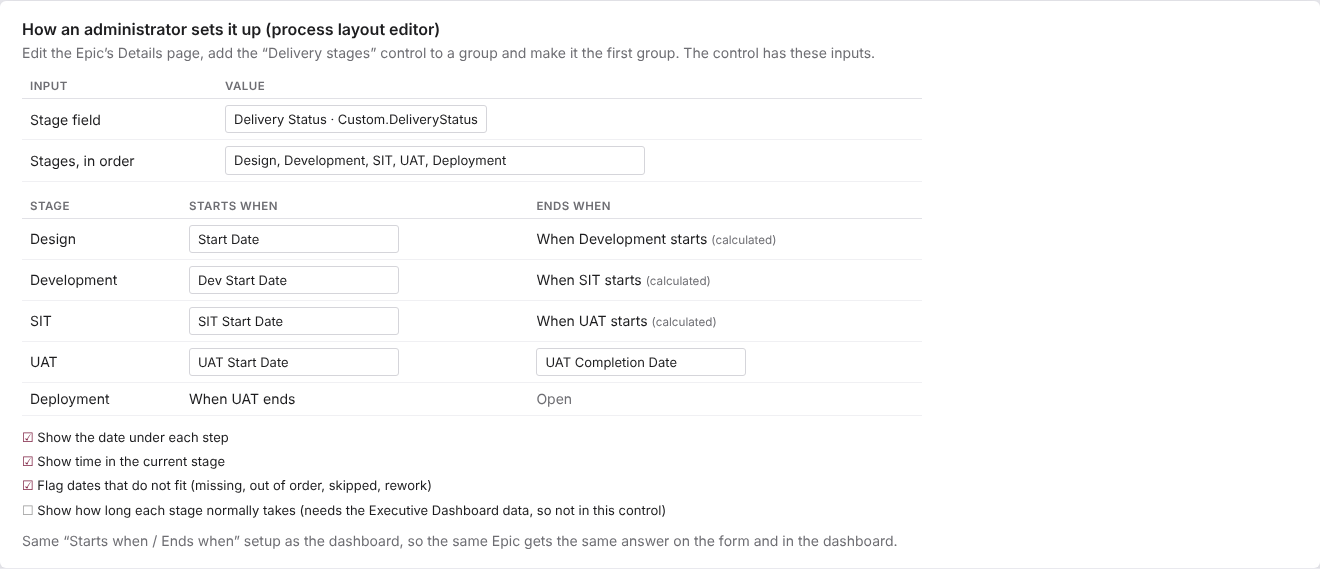
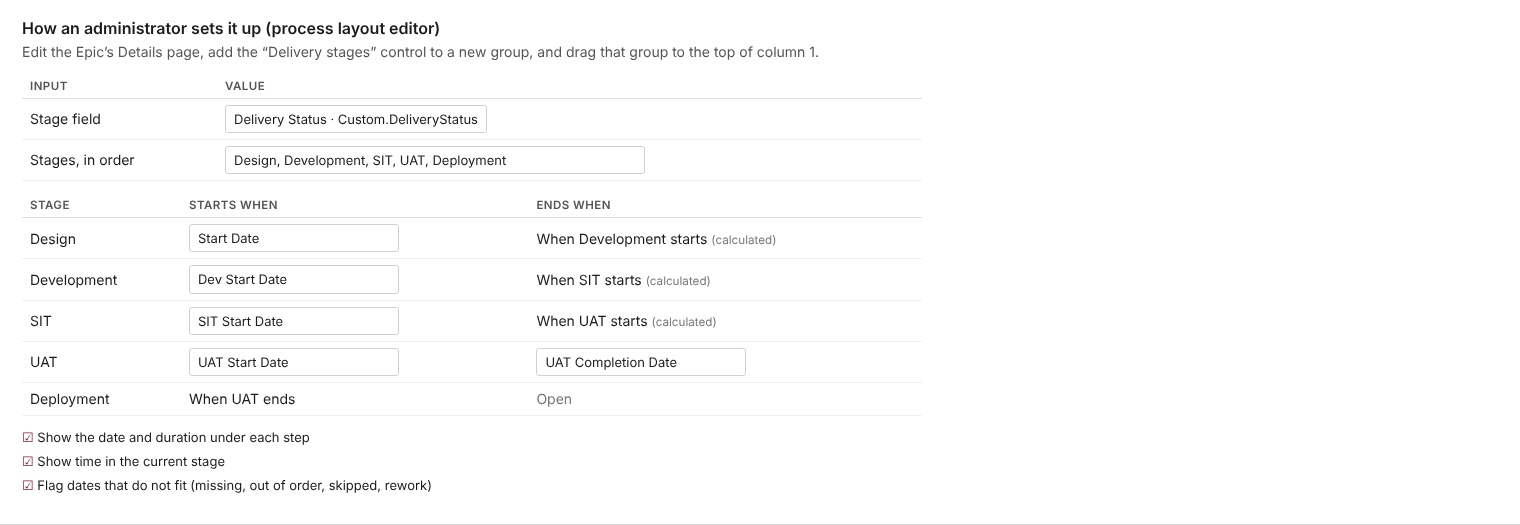
Prototype only: Delivery stages control on the real Epic form layout (top of column 1; not built)
Claude-Session: https://claude.ai/code/session_01376dPYr6LN3XTveSHPVJQG

diff --git a/prototypes/workitem-stage-control.html b/prototypes/workitem-stage-control.html
@@ -1,84 +1,85 @@
-<!doctype html><html lang="en"><head><meta charset="utf-8"><meta name="viewport" content="width=device-width,initial-scale=1"><title>Delivery stages control on the Epic form (mock-up)</title>
+<!doctype html><html lang="en"><head><meta charset="utf-8"><meta name="viewport" content="width=device-width,initial-scale=1"><title>Delivery stages control on the Epic form (mock-up on the real form)</title>
 <style>
-:root{color-scheme:light;--acc:#7a1a3c;--l1:#1d1d1f;--l2:#6e6e73;--sep:#e1e1e6;--bg:#f4f4f6;--font:"Segoe UI",-apple-system,BlinkMacSystemFont,"Inter",system-ui,sans-serif}
-*{box-sizing:border-box}body{margin:0;background:#e9e9ee;font:14px/1.4 var(--font);color:var(--l1);padding:22px}
-.top{max-width:1320px;margin:0 auto 14px}.top h1{margin:0 0 4px;font:700 20px var(--font)}.top p{margin:0;color:var(--l2);max-width:1000px}
-.ctl{max-width:1320px;margin:0 auto 14px;display:flex;gap:22px;flex-wrap:wrap;align-items:flex-start}.ctl .g{display:flex;flex-direction:column;gap:6px}.ctl .l{font:600 11px var(--font);text-transform:uppercase;letter-spacing:.04em;color:var(--l2)}
-.pk{display:flex;gap:6px;flex-wrap:wrap}.pk button{border:0;border-radius:99px;background:#fff;padding:6px 12px;font:500 12.5px var(--font);cursor:pointer;box-shadow:0 0 0 1px var(--sep)}.pk button.on{background:var(--acc);color:#fff;box-shadow:none}
-.frame{max-width:1320px;margin:0 auto;background:#fff;border-radius:6px;box-shadow:0 2px 14px rgba(0,0,0,.12);overflow:hidden}
-/* ADO-like form */
-.wih{padding:14px 20px 0;border-bottom:1px solid var(--sep);background:#fafafa}.wih .crumb{display:flex;gap:8px;align-items:center;color:#555;font-size:13px}.wih .crumb b{background:#6b21a8;color:#fff;border-radius:3px;padding:0 6px;font-size:11px}
-.wih h2{margin:6px 0 8px;font:600 21px var(--font);display:flex;gap:10px;align-items:center}.wih h2 span{font:400 13px var(--font);color:#777}
-.wih .row{display:flex;gap:34px;padding-bottom:10px;flex-wrap:wrap}.wih .row div{min-width:170px}.wih .row label{display:block;font-size:12px;color:#666}.wih .row .v{display:flex;gap:6px;align-items:center;font-size:14px}.dotb{width:9px;height:9px;border-radius:50%;background:#2563eb;display:inline-block}
-.tabs{display:flex;gap:22px;padding:0 20px;background:#fafafa;border-bottom:1px solid var(--sep)}.tabs span{padding:9px 2px;font-size:14px;color:#555;border-bottom:3px solid transparent}.tabs span.on{color:#111;font-weight:600;border-color:#0078d4}
-.page{background:#f3f3f5;padding:14px;display:grid;gap:14px;align-items:start}.page.c3{grid-template-columns:repeat(3,minmax(0,1fr))}.page.c2{grid-template-columns:repeat(2,minmax(0,1fr))}.page.c1{grid-template-columns:minmax(0,1fr)}
-.grp{background:#fff;border:1px solid var(--sep);border-radius:4px;padding:10px 14px 14px}.grp h4{margin:0 0 8px;font:600 14px var(--font);display:flex;align-items:center;gap:8px}.grp h4 .info{font:400 11px var(--font);color:#8a8a90;margin-left:auto;display:flex;gap:4px;align-items:center}
-.ph{height:12px;background:#ececf0;border-radius:3px;margin:8px 0}.ph.s{width:60%}.fld{margin:10px 0}.fld label{display:block;font-size:12px;color:#666;margin-bottom:3px}.fld .in{height:28px;border:1px solid #d5d5da;border-radius:2px;background:#fff;padding:5px 8px;color:#444;font-size:13px}
-/* the control */
-.dsc{position:relative}.dsc .now{display:flex;gap:8px;align-items:center;flex-wrap:wrap;margin:0 0 12px;font-size:13px}.dsc .now b{font-weight:600}.dsc .chip{display:inline-flex;gap:5px;align-items:center;border-radius:99px;padding:2px 10px;font:600 11.5px var(--font)}.chip.t{background:#f3eef0;color:var(--acc)}.chip.w{background:#fef3c7;color:#92400e}.chip.r{background:#fee2e2;color:#b91c1c}.chip.g{background:#dcfce7;color:#166534}
-.stp{display:flex;padding:2px 0 0}.stp>div{flex:1;text-align:center;font-size:11.5px;color:var(--l2);position:relative;min-width:0;padding:0 1px}.stp i{display:grid;place-items:center;width:26px;height:26px;margin:0 auto 5px;border-radius:50%;background:#e5e5ea;color:#fff;font:700 12px var(--font);font-style:normal;position:relative;z-index:1;cursor:default}.stp>div:before{content:"";position:absolute;top:12px;left:-50%;right:50%;height:3px;background:#e5e5ea}.stp>div:first-child:before{display:none}
-.stp .done i,.stp .done:before,.stp .cur:before{background:var(--acc)}.stp .cur i{background:var(--acc);box-shadow:0 0 0 5px rgba(122,26,60,.18)}.stp .cur{color:var(--l1);font-weight:600}.stp .skip i{background:#fff;border:2px dashed #b8b8c0;color:#999}.stp .skip:before{background:repeating-linear-gradient(90deg,#d1d1d6 0 4px,transparent 4px 8px)}.stp .rw i{background:#d97706;box-shadow:0 0 0 5px rgba(217,119,6,.2)}.stp .bad i{box-shadow:0 0 0 3px rgba(220,38,38,.25)}
-.stp .nm{display:block;white-space:nowrap;overflow:hidden;text-overflow:ellipsis}.stp .d{display:block;font-size:10.5px;color:var(--l2);font-weight:400;margin-top:1px;white-space:nowrap}.stp .d.m{color:#b91c1c;font-weight:600}
-.stp>div:hover .tip{display:block}.tip{display:none;position:absolute;z-index:20;top:46px;left:50%;transform:translateX(-50%);width:190px;background:#1d1d1f;color:#fff;border-radius:8px;padding:8px 10px;font-size:12px;text-align:left;font-weight:400;box-shadow:0 8px 24px rgba(0,0,0,.25)}.tip b{display:block;font-weight:600;margin-bottom:2px}.tip span{color:#cfcfd4;display:block}
-.notes{margin-top:12px;display:grid;gap:6px}.note{display:flex;gap:8px;border-radius:8px;padding:7px 10px;font-size:12.5px;background:#fff7e6;border:1px solid #fde1a8}.note.r{background:#fef2f2;border-color:#fecaca}
-.ro{margin-top:10px;font-size:11.5px;color:#8a8a90}
-/* set-up */
-.setup{max-width:1320px;margin:18px auto 0;background:#fff;border-radius:6px;box-shadow:0 2px 14px rgba(0,0,0,.1);padding:18px 22px}.setup h3{margin:0 0 4px;font:600 16px var(--font)}.setup p{margin:0 0 12px;color:var(--l2)}
-.setup table{border-collapse:collapse;width:100%;max-width:900px}.setup th{font:600 11.5px var(--font);text-transform:uppercase;letter-spacing:.04em;color:var(--l2);text-align:left;padding:5px 8px;border-bottom:1px solid var(--sep)}.setup td{padding:6px 8px;border-bottom:1px solid #f0f0f3}.setup .sel{border:1px solid #d5d5da;border-radius:3px;padding:4px 8px;background:#fff;font-size:13px;display:inline-block;min-width:210px}
-.opts{display:grid;gap:6px;margin:12px 0;font-size:13px}.opts span::before{content:"☑ ";color:var(--acc)}.opts span.off::before{content:"☐ ";color:#999}
+:root{color-scheme:light;--acc:#7a1a3c;--l1:#1b1b1b;--l2:#616161;--sep:#e1dfdd;--blue:#0067b8;--font:"Segoe UI",-apple-system,BlinkMacSystemFont,"Inter",system-ui,sans-serif}
+*{box-sizing:border-box}body{margin:0;background:#dcdcdf;font:14px/1.4 var(--font);color:var(--l1);padding:20px}
+.top{max-width:1520px;margin:0 auto 12px}.top h1{margin:0 0 4px;font:700 20px var(--font)}.top p{margin:0;color:#555;max-width:1100px}
+.ctl{max-width:1520px;margin:0 auto 12px;display:flex;gap:24px;flex-wrap:wrap}.ctl .g{display:flex;flex-direction:column;gap:5px}.ctl .l{font:600 11px var(--font);text-transform:uppercase;letter-spacing:.04em;color:#555}
+.pk{display:flex;gap:6px;flex-wrap:wrap}.pk button{border:0;border-radius:99px;background:#fff;padding:6px 12px;font:500 12.5px var(--font);cursor:pointer;box-shadow:0 0 0 1px #cfcfd4}.pk button.on{background:var(--acc);color:#fff;box-shadow:none}
+.frame{margin:0 auto;background:#fff;box-shadow:0 2px 14px rgba(0,0,0,.18);overflow:hidden;transition:width .2s}
+/* the real form */
+.bar{display:flex;align-items:center;gap:18px;padding:0 14px;height:54px;border-bottom:1px solid var(--sep)}.bar h3{margin:0;font:400 20px var(--font)}.bar .vr{width:1px;height:30px;background:var(--sep)}.bar a{display:flex;gap:8px;align-items:center;font-weight:600;font-size:14px}.bar .pg{margin-left:auto;display:flex;gap:14px;align-items:center;color:#444}
+.head{position:relative;border-left:9px solid #e0750a;padding:6px 14px 8px}.head .t1{display:flex;align-items:center;gap:8px;color:var(--blue);font-size:12.5px;font-weight:600;text-transform:uppercase}.crown{color:#e0750a}
+.head .t2{display:flex;gap:14px;align-items:center;font-size:21px;margin:4px 0 12px}.head .t2 span{color:#444}
+.head .t3{display:flex;gap:26px;align-items:center;font-size:14px}.av{width:28px;height:28px;border-radius:50%;background:#5b1a6b;color:#fff;display:inline-grid;place-items:center;font-size:10px;margin-right:7px}.cm{color:var(--blue)}
+.actions{position:absolute;right:12px;top:68px;display:flex;gap:8px;align-items:center}.btn{display:inline-flex;gap:8px;align-items:center;border:0;background:#f0f0f0;padding:7px 14px;font:600 14px var(--font);color:#555}.btn.d{color:#999}
+.band{background:#f7f7f7;display:flex;justify-content:space-between;align-items:flex-start;padding:10px 12px 0 18px;border-bottom:1px solid var(--sep);position:relative}.flds{display:grid;grid-template-columns:auto auto;column-gap:80px;row-gap:6px;padding-bottom:12px}.fl{display:flex;gap:26px;align-items:center;font-size:14px}.fl label{width:60px;color:#555;font-size:13px}.fl .v{display:flex;gap:10px;align-items:center}.dotb{width:10px;height:10px;border-radius:50%;background:#0078d4}.mut{color:#888}
+.upd{position:absolute;right:10px;top:4px;font-size:12px;color:#666}.tabs{display:flex;align-items:flex-end;gap:2px;margin-top:22px}.tabs span{padding:8px 11px 9px;font-size:14px;color:#222;border-bottom:3px solid transparent}.tabs .on{font-weight:600;border-color:#222;background:#fff}.tabs .ic{display:flex;gap:6px;align-items:center;color:#555}.tabs .badge{background:#eee;border-radius:10px;padding:0 7px;font-size:12px}
+.page{display:grid;grid-template-columns:2fr 1fr 1fr;gap:26px;padding:16px 14px 28px}.col>section{margin-bottom:22px}
+.gh{display:flex;align-items:center;margin:0 0 10px;padding-bottom:8px;border-bottom:1px solid var(--sep);font:600 18px var(--font)}.gh.blue{color:var(--blue)}.gh .ic{margin-left:auto;display:flex;gap:16px;color:#0067b8;font-size:14px}
+.f{margin:6px 0 14px 10px}.f label{display:flex;gap:5px;font-size:13px;color:#555;margin-bottom:4px}.f .v{font-size:14px;min-height:24px}.f .v.cal{display:flex;justify-content:space-between;width:96%}
+.box{background:#f6f6f6;padding:12px 14px;font-size:14px;line-height:1.35;margin:0 0 0 8px}.box a{color:var(--blue)}.card{border-radius:3px;box-shadow:0 1px 6px rgba(0,0,0,.18);padding:14px 16px;margin:10px 0 16px}.card .cb{height:96px;border:1px solid var(--sep);padding:10px;color:#777;font-style:italic;display:flex;gap:14px}
+/* the control: flat, under ADO's own group heading */
+.dsc{padding:0 0 4px}.dsc .now{display:flex;gap:10px;align-items:center;flex-wrap:wrap;margin:0 0 14px;font-size:14px}.dsc .now b{font-weight:600}.chip{display:inline-flex;gap:5px;align-items:center;border-radius:99px;padding:2px 10px;font:600 12px var(--font)}.chip.t{background:#f3eef0;color:var(--acc)}.chip.w{background:#fef3c7;color:#92400e}.chip.r{background:#fee2e2;color:#b91c1c}.chip.g{background:#dcfce7;color:#166534}
+.stp{display:flex;padding:2px 0 0}.stp>div{flex:1;text-align:center;font-size:12.5px;color:var(--l2);position:relative;min-width:0;padding:0 2px}.stp i{display:grid;place-items:center;width:28px;height:28px;margin:0 auto 6px;border-radius:50%;background:#e5e5ea;color:#fff;font:700 12.5px var(--font);font-style:normal;position:relative;z-index:1}.stp>div:before{content:"";position:absolute;top:13px;left:-50%;right:50%;height:3px;background:#e5e5ea}.stp>div:first-child:before{display:none}
+.stp .done i,.stp .done:before,.stp .cur:before{background:var(--acc)}.stp .cur i{background:var(--acc);box-shadow:0 0 0 5px rgba(122,26,60,.18)}.stp .cur{color:var(--l1)}.stp .cur .nm{font-weight:600}.stp .skip i{background:#fff;border:2px dashed #b8b8c0;color:#999}.stp .skip:before{background:repeating-linear-gradient(90deg,#d1d1d6 0 4px,transparent 4px 8px)}.stp .rw i{background:#d97706;box-shadow:0 0 0 5px rgba(217,119,6,.2)}.stp .bad i{box-shadow:0 0 0 3px rgba(220,38,38,.28)}
+.stp .nm{display:block;white-space:nowrap;overflow:hidden;text-overflow:ellipsis}.stp .d{display:block;font-size:11.5px;color:var(--l2);margin-top:1px;white-space:nowrap}.stp .d.m{color:#b91c1c;font-weight:600}.stp .u{display:block;font-size:11px;color:#8a8a90;white-space:nowrap}
+.stp>div:hover .tip{display:block}.tip{display:none;position:absolute;z-index:20;top:50px;left:50%;transform:translateX(-50%);width:200px;background:#1b1b1b;color:#fff;border-radius:6px;padding:8px 10px;font-size:12px;text-align:left;font-weight:400;box-shadow:0 8px 24px rgba(0,0,0,.3)}.tip b{display:block;font-weight:600;margin-bottom:2px}.tip span{color:#d2d2d6;display:block}
+.notes{margin-top:12px;display:grid;gap:6px}.note{display:flex;gap:8px;border-radius:4px;padding:7px 10px;font-size:13px;background:#fff7e6;border:1px solid #fde1a8}.note.r{background:#fef2f2;border-color:#fecaca}.ro{margin-top:10px;font-size:12px;color:#8a8a90}
+.setup{max-width:1520px;margin:18px auto 0;background:#fff;box-shadow:0 2px 14px rgba(0,0,0,.12);padding:18px 22px}.setup h3{margin:0 0 4px;font:600 16px var(--font)}.setup p{margin:0 0 12px;color:#555}.setup table{border-collapse:collapse;width:100%;max-width:900px}.setup th{font:600 11.5px var(--font);text-transform:uppercase;letter-spacing:.04em;color:#555;text-align:left;padding:5px 8px;border-bottom:1px solid var(--sep)}.setup td{padding:6px 8px;border-bottom:1px solid #f0f0f3}.setup .sel{border:1px solid #cfcfd4;border-radius:3px;padding:4px 8px;background:#fff;font-size:13px;display:inline-block;min-width:210px}
+.opts{display:grid;gap:6px;margin:12px 0;font-size:13px}.opts span::before{content:"☑ ";color:var(--acc)}
 </style></head><body>
-<div class="top"><h1>Delivery stages control on the Epic form <span style="font:500 13px var(--font);color:#6e6e73">(mock-up: nothing is built)</span></h1>
-<p>A read-only control in <b>Work Item Grid &amp; Rules</b>, placed as the <b>first group on the Epic’s Details page</b> (right under the form header). It reads the stage field and the stage date fields of the Epic that is open. Pick a case and a page layout to see how it behaves at a real column width.</p></div>
-<div class="ctl"><div class="g"><span class="l">Epic case</span><div class="pk" id="cases"></div></div><div class="g"><span class="l">Page layout (column width)</span><div class="pk" id="cols"></div></div><div class="g"><span class="l">Dates</span><div class="pk" id="dts"></div></div></div>
-<div class="frame"><div class="wih"><div class="crumb"><b>Epic</b> <span id="eid"></span></div><h2><span id="ttl" style="font:600 21px var(--font);color:#111"></span></h2>
-<div class="row"><div><label>Assigned To</label><div class="v">Sara Al-Thani</div></div><div><label>State</label><div class="v"><i class="dotb"></i> Active</div></div><div><label>Reason</label><div class="v">Implementation started</div></div><div><label>Area</label><div class="v">Project E2E SDLC Automation</div></div><div><label>Iteration</label><div class="v">Project E2E SDLC Automation</div></div></div></div>
-<div class="tabs"><span class="on">Details</span><span>Test</span><span>Excel</span><span>History</span></div>
-<div class="page c3" id="page"><div class="grp"><h4>Delivery stages <span class="info">ⓘ read-only</span></h4><div class="dsc" id="dsc"></div></div>
-<div class="grp"><h4>Description</h4><div class="ph"></div><div class="ph"></div><div class="ph s"></div></div><div class="grp"><h4>Planning</h4><div class="fld"><label>Start Date</label><div class="in">14 Jan 2026</div></div><div class="fld"><label>Target Date</label><div class="in">23 Aug 2026</div></div></div>
-<div class="grp"><h4>Classification</h4><div class="fld"><label>Business Value</label><div class="in">Regulatory</div></div></div><div class="grp"><h4>Related Work</h4><div class="ph"></div><div class="ph s"></div></div><div class="grp"><h4>Deployment</h4><div class="ph"></div></div></div></div>
-<div class="setup"><h3>How an administrator sets it up (process layout editor)</h3><p>Edit the Epic’s Details page, add the “Delivery stages” control to a group and make it the first group. The control has these inputs.</p>
-<table><thead><tr><th>Input</th><th>Value</th></tr></thead><tbody>
-<tr><td>Stage field</td><td><span class="sel">Delivery Status · Custom.DeliveryStatus</span></td></tr>
-<tr><td>Stages, in order</td><td><span class="sel" style="min-width:420px">Design, Development, SIT, UAT, Deployment</span></td></tr></tbody></table>
-<table style="margin-top:12px"><thead><tr><th>Stage</th><th>Starts when</th><th>Ends when</th></tr></thead><tbody>
-<tr><td>Design</td><td><span class="sel">Start Date</span></td><td>When Development starts <small style="color:#6e6e73">(calculated)</small></td></tr>
-<tr><td>Development</td><td><span class="sel">Dev Start Date</span></td><td>When SIT starts <small style="color:#6e6e73">(calculated)</small></td></tr>
-<tr><td>SIT</td><td><span class="sel">SIT Start Date</span></td><td>When UAT starts <small style="color:#6e6e73">(calculated)</small></td></tr>
-<tr><td>UAT</td><td><span class="sel">UAT Start Date</span></td><td><span class="sel">UAT Completion Date</span></td></tr>
-<tr><td>Deployment</td><td>When UAT ends</td><td style="color:#6e6e73">Open</td></tr></tbody></table>
-<div class="opts"><span>Show the date under each step</span><span>Show time in the current stage</span><span>Flag dates that do not fit (missing, out of order, skipped, rework)</span><span class="off">Show how long each stage normally takes (needs the Executive Dashboard data, so not in this control)</span></div>
-<p style="margin:0;color:#6e6e73">Same “Starts when / Ends when” setup as the dashboard, so the same Epic gets the same answer on the form and in the dashboard.</p></div>
+<div class="top"><h1>Delivery stages control on the Epic form <span style="font:500 13px var(--font);color:#555">(mock-up on your real form; nothing is built)</span></h1>
+<p>A read-only control in <b>Work Item Grid &amp; Rules</b>, placed as the <b>first group in column 1</b> of the Epic’s Details page, above Description. The group title and the line under it are drawn by Azure DevOps; the control fills the area below. Pick a case, a window width and the date style.</p></div>
+<div class="ctl"><div class="g"><span class="l">Epic case</span><div class="pk" id="cases"></div></div><div class="g"><span class="l">Window width</span><div class="pk" id="wid"></div></div><div class="g"><span class="l">Dates</span><div class="pk" id="dts"></div></div></div>
+<div class="frame" id="frame">
+<div class="bar"><h3>Recently updated</h3><i class="vr"></i><a>↩ Back to Work Items</a><span class="pg">1 of 3 &nbsp;↑ &nbsp;↓</span></div>
+<div class="head"><div class="t1"><span class="crown">♛</span> EPIC <span id="eid"></span></div><div class="t2"><span id="eid2"></span><span style="color:#111" id="ttl"></span></div><div class="t3"><span><i class="av">AS</i>Aman S</span><span class="cm">🗨 7 Comments</span><b style="font-weight:600">Add Tag</b></div>
+<div class="actions"><span class="btn d">💾 Save</span><span class="btn">👁 Follow &nbsp;⚙</span><span style="color:#555">⟳ &nbsp; ↶ &nbsp; ⋮</span></div></div>
+<div class="band"><div class="flds"><div class="fl"><label>State</label><span class="v"><i class="dotb"></i> Active</span></div><div class="fl"><label>Area</label><span class="v">Project E2E SDLC Automation</span></div><div class="fl"><label>Reason</label><span class="v mut">🔒 Implementation started</span></div><div class="fl"><label>Iteration</label><span class="v">Project E2E SDLC Automation</span></div></div>
+<span class="upd">Updated by Aman S: Yesterday</span><div class="tabs"><span class="on">Details</span><span>Test</span><span>Excel</span><span>Excel Update</span><span class="ic">⟲</span><span class="ic">🔗 <i class="badge">0</i></span><span class="ic">📎 <i class="badge">2</i></span></div></div>
+<div class="page"><div class="col">
+<section><div class="gh">Delivery stages</div><div class="dsc" id="dsc"></div></section>
+<section><div class="gh blue">Description <span class="ic">⤢ &nbsp; ^</span></div><div style="padding:6px 0 26px 14px">.test</div></section>
+<section><div class="gh" style="border:0;font-size:18px">Discussion</div><div style="border-top:1px solid var(--sep)"></div><div class="card"><div class="cb"><i class="av" style="margin:0">AS</i>Add a comment. Use # to link a work item, @ to mention a person, or ! to link a pull request.</div></div><div class="card"><i class="av">AS</i><b>Aman S</b> <span style="color:#777">commented Yesterday</span><div style="margin:10px 0 4px 36px"><span style="color:#c00;font-weight:600">@Aman S</span> permanently deleted the attachment ‘3 - Risk Assessment 1.xlsx’ from Attachments</div></div></section></div>
+<div class="col"><section><div class="gh">Planning</div><div class="f"><label>Priority</label><div class="v">2</div></div><div class="f"><label>Risk</label><div class="v">&nbsp;</div></div><div class="f"><label>Effort</label><div class="v">&nbsp;</div></div><div class="f"><label>Business Value</label><div class="v">&nbsp;</div></div><div class="f"><label>Time Criticality</label><div class="v">&nbsp;</div></div><div class="f"><label>Start Date ⓘ</label><div class="v cal"><span>16/10/2026 00:00</span><span>▦</span></div></div><div class="f"><label>Target Date ⓘ</label><div class="v cal"><span>14/01/2027 00:00</span><span>▦</span></div></div></section>
+<section><div class="gh">Classification</div><div class="f"><label>Value area</label><div class="v">Business</div></div></section></div>
+<div class="col"><section><div class="gh">Deployment</div><div class="box">To track releases associated with this work item, go to <a>Releases</a> and turn on deployment status reporting for Boards in your pipeline’s Options menu. <a>Learn more about deployment status reporting</a></div></section>
+<section><div class="gh">Development</div><div class="f" style="margin-bottom:8px"><b style="font-weight:600">+ Add link</b></div><div class="box">Link an Azure Repos <a>commit</a>, <a>pull request</a> or <a>branch</a> to see the status of your development. You can also <a>create a branch</a> to get started.</div></section>
+<section><div class="gh">Related Work</div><div class="f" style="margin-bottom:8px"><b style="font-weight:600">+ Add link ⌄</b></div><div class="box"><a>Add an existing work item as a parent</a></div></section></div></div></div>
+<div class="setup"><h3>How an administrator sets it up (process layout editor)</h3><p>Edit the Epic’s Details page, add the “Delivery stages” control to a new group, and drag that group to the top of column 1.</p>
+<table><thead><tr><th>Input</th><th>Value</th></tr></thead><tbody><tr><td>Stage field</td><td><span class="sel">Delivery Status · Custom.DeliveryStatus</span></td></tr><tr><td>Stages, in order</td><td><span class="sel" style="min-width:420px">Design, Development, SIT, UAT, Deployment</span></td></tr></tbody></table>
+<table style="margin-top:12px"><thead><tr><th>Stage</th><th>Starts when</th><th>Ends when</th></tr></thead><tbody><tr><td>Design</td><td><span class="sel">Start Date</span></td><td>When Development starts <small style="color:#777">(calculated)</small></td></tr><tr><td>Development</td><td><span class="sel">Dev Start Date</span></td><td>When SIT starts <small style="color:#777">(calculated)</small></td></tr><tr><td>SIT</td><td><span class="sel">SIT Start Date</span></td><td>When UAT starts <small style="color:#777">(calculated)</small></td></tr><tr><td>UAT</td><td><span class="sel">UAT Start Date</span></td><td><span class="sel">UAT Completion Date</span></td></tr><tr><td>Deployment</td><td>When UAT ends</td><td style="color:#777">Open</td></tr></tbody></table>
+<div class="opts"><span>Show the date and duration under each step</span><span>Show time in the current stage</span><span>Flag dates that do not fit (missing, out of order, skipped, rework)</span></div></div>
 <script>
 const $=(s,r=document)=>r.querySelector(s);const TODAY=Date.UTC(2026,9,31),DAY=864e5,d=s=>s?Date.parse(s+"T00:00:00Z"):null;
 const STG=["Design","Development","SIT","UAT","Deployment"];const fm=(t,y)=>t==null?"–":new Date(t).toLocaleDateString("en-GB",{day:"numeric",month:"short",...(y?{year:"numeric"}:{}),timeZone:"UTC"});const days=(a,b)=>Math.round((b-a)/DAY);
-const CASES=[{k:"Normal",id:1102,t:"Core ledger patch 9.4",st:3,es:"2026-05-11",dev:"2026-06-29",sit:"2026-09-14",uat:"2026-10-19"},
-{k:"Missing date",id:1177,t:"Cards portal",st:2,es:"2026-04-06",dev:"2026-06-08",since:"2026-09-21"},
-{k:"Out of order",id:1163,t:"Treasury feed",st:3,es:"2026-03-02",dev:"2026-08-10",sit:"2026-07-27",uat:"2026-10-05"},
-{k:"Skipped stage",id:1141,t:"KYC refresh",st:3,es:"2026-05-04",dev:"2026-07-06",uat:"2026-10-12"},
-{k:"Rework",id:1205,t:"Loan origination v2",st:1,es:"2026-03-23",dev:"2026-06-01",sit:"2026-09-07",since:"2026-10-02"},
-{k:"Delivered",id:1088,t:"Fraud rules v3",st:4,done:true,es:"2026-02-02",dev:"2026-04-13",sit:"2026-06-22",uat:"2026-08-03",uatDone:"2026-09-18"}];
-let CI=0,COLS="c3",DT="under";
+const CASES=[{k:"Normal",id:3,t:"Core ledger patch 9.4",st:3,es:"2026-05-11",dev:"2026-06-29",sit:"2026-09-14",uat:"2026-10-19"},
+{k:"Missing date",id:3,t:"Cards portal",st:2,es:"2026-04-06",dev:"2026-06-08",since:"2026-09-21"},
+{k:"Out of order",id:3,t:"Treasury feed",st:3,es:"2026-03-02",dev:"2026-08-10",sit:"2026-07-27",uat:"2026-10-05"},
+{k:"Skipped stage",id:3,t:"KYC refresh",st:3,es:"2026-05-04",dev:"2026-07-06",uat:"2026-10-12"},
+{k:"Rework",id:3,t:"Loan origination v2",st:1,es:"2026-03-23",dev:"2026-06-01",sit:"2026-09-07",since:"2026-10-02"},
+{k:"Delivered",id:3,t:"Fraud rules v3",st:4,done:true,es:"2026-02-02",dev:"2026-04-13",sit:"2026-06-22",uat:"2026-08-03",uatDone:"2026-09-18"}];
+let CI=0,WID=1500,DT="under";
 function calc(e){const f=[e.es,e.dev,e.sit,e.uat].map(d);const done=e.uatDone?d(e.uatDone):null;const R=STG.map((n,i)=>({n,i,start:i<4?f[i]:done,end:null}));
  R[0].end=R[1].start;R[1].end=R[2].start??(R[3].start);R[2].end=R[3].start;R[3].end=done;
  const max=R.reduce((m,r,i)=>r.start!=null?i:m,-1);let cur=e.st;const iss=[];
- const rework=!e.done&&cur<max;if(rework){R[cur].rework=true;R[cur].start=d(e.since);R[cur].end=null;R[cur].hist=true;iss.push(["w",`Back in ${STG[cur]}: ${STG[max]} already has a start date (rework).`])}
- R.forEach((r,i)=>{if(r.start==null&&!r.rework){if(i===cur&&!e.done){r.missing=true;if(e.since){r.start=d(e.since);r.hist=true}iss.push(["w",`${r.n} start date is missing${e.since?"; time in stage is read from the history":""}.`])}else if(i<max&&i>0){r.skip=true;iss.push(["w",`${r.n} looks skipped: a later stage has a start date.`])}}});
- let last=null;R.forEach(r=>{if(r.start==null||r.hist)return;if(last!=null&&r.start<last){r.order=true;iss.push(["r",`${r.n} starts before the stage above it.`])}last=Math.max(last??r.start,r.start)});
+ const rework=!e.done&&cur<max;if(rework){R[cur].rework=true;R[cur].start=d(e.since);R[cur].end=null;R[cur].hist=true;iss.push(["w",`Back in ${STG[cur]}: ${STG[max]} already has a start date (rework). Time in stage counts from ${fm(d(e.since),1)} (history).`])}
+ R.forEach((r,i)=>{if(r.start==null&&!r.rework){if(i===cur&&!e.done){r.missing=true;if(e.since){r.start=d(e.since);r.hist=true;if(i>0&&R[i-1].end==null){R[i-1].end=d(e.since);R[i-1].endHist=true}}iss.push(["w",`${r.n} start date is missing${e.since?"; time in stage is read from the history":""}.`])}else if(i<max&&i>0){r.skip=true;iss.push(["w",`${r.n} looks skipped: a later stage has a start date.`])}}});
+ let last=null;R.forEach(r=>{if(r.start==null||r.hist)return;if(last!=null&&r.start<last){r.order=true;iss.push(["r",`${r.n} starts before the stage above it, so no duration is shown.`])}last=Math.max(last??r.start,r.start)});
  R.forEach(r=>{if(r.skip||r.start==null||r.order)return;let en=r.end;if(r.i===cur&&!e.done){en=TODAY;r.open=true}if(en!=null&&en>=r.start)r.dur=days(r.start,en)});
  return{R,cur,iss,max}}
-function render(){const e=CASES[CI],c=calc(e),R=c.R,full=COLS==="c1"||DT==="year";$("#eid").textContent="#"+e.id;$("#ttl").textContent=e.t;
- const curR=R[c.cur];const flags=c.iss.length;
- const head=`<div class="now">${e.done?'<span class="chip g">✓ Delivered '+fm(d(e.uatDone),1)+'</span>':`<span>In <b>${STG[c.cur]}</b></span>${curR.dur!=null&&!curR.order?`<span class="chip t">${curR.dur} d in this stage${curR.hist?" (from history)":""}</span>`:""}`}${flags?`<span class="chip ${c.iss.some(x=>x[0]==="r")?"r":"w"}">⚠ ${flags} to check</span>`:""}</div>`;
+function render(){const e=CASES[CI],c=calc(e),R=c.R;$("#eid").textContent=e.id;$("#eid2").textContent=e.id;$("#ttl").textContent=e.t;$("#frame").style.width=WID+"px";
+ const narrow=document.querySelector("#frame").clientWidth<1300;const curR=R[c.cur];const flags=c.iss.length;
+ const head=`<div class="now">${e.done?'<span class="chip g">✓ Delivered '+fm(d(e.uatDone),1)+'</span><span style="color:#555">Total '+days(d(e.es),d(e.uatDone))+' days from the first stage</span>':`<span>In <b>${STG[c.cur]}</b></span>${curR.dur!=null&&!curR.order?`<span class="chip t">${curR.dur} d in this stage${curR.hist?" (from history)":""}</span>`:""}`}${flags?`<span class="chip ${c.iss.some(x=>x[0]==="r")?"r":"w"}">⚠ ${flags} to check</span>`:""}</div>`;
  const steps=R.map((r,i)=>{const done=e.done||i<c.cur;const cl=[r.skip?"skip":"",r.rework?"rw":(!e.done&&i===c.cur?"cur":done?"done":""),r.order||r.missing?"bad":""].join(" ");
-  const ds=r.skip?"skipped":r.start!=null?(r.hist?"~":"")+fm(r.start,COLS==="c1"):r.missing?"missing":"–";
-  const tip=`<div class="tip"><b>${r.n}</b><span>${r.skip?"Skipped (no start date)":r.start!=null?"Started "+fm(r.start,1)+(r.hist?" (from history)":""):"No start date"}</span>${r.end!=null&&!r.rework?`<span>Ended ${fm(r.end,1)}</span>`:r.open?"<span>Open</span>":""}${r.dur!=null?`<span>Duration ${r.dur} d</span>`:""}</div>`;
-  return`<div class="${cl}"><i>${r.skip?"–":(done&&!r.rework)?"✓":i+1}</i><span class="nm" title="${r.n}">${r.n}</span>${DT==="hover"?"":`<span class="d ${r.missing?"m":""}">${ds}</span>`}${tip}</div>`}).join("");
+  const ds=r.skip?"skipped":r.start!=null?(r.hist?"~":"")+fm(r.start,!narrow):r.missing?"date missing":"–";const du=r.skip?"0 d":r.dur!=null&&!r.order?(r.open?"":"")+r.dur+" d":"";
+  const tip=`<div class="tip"><b>${r.n}</b><span>${r.skip?"Skipped (no start date)":r.start!=null?"Started "+fm(r.start,1)+(r.hist?" (from history)":""):"No start date"}</span>${r.end!=null&&!r.rework?`<span>Ended ${(r.endHist?"~":"")+fm(r.end,1)}</span>`:r.open?"<span>Open</span>":""}${r.dur!=null?`<span>Duration ${r.dur} d</span>`:""}</div>`;
+  return`<div class="${cl}"><i>${r.skip?"–":(done&&!r.rework)?"✓":i+1}</i><span class="nm" title="${r.n}">${r.n}</span>${DT==="hover"?"":`<span class="d ${r.missing?"m":""}">${ds}</span><span class="u">${du}${r.open?" so far":""}</span>`}${tip}</div>`}).join("");
  const notes=c.iss.length?`<div class="notes">${c.iss.map(x=>`<div class="note ${x[0]==="r"?"r":""}"><span>${x[0]==="r"?"⛔":"⚠"}</span><span>${x[1]}</span></div>`).join("")}</div>`:"";
- $("#dsc").innerHTML=head+`<div class="stp">${steps}</div>`+notes+`<div class="ro">Read-only. Change the stage in the Delivery Status field; the dates are the Epic’s own date fields.</div>`;
- $("#page").className="page "+COLS;
+ $("#dsc").innerHTML=head+`<div class="stp">${steps}</div>`+notes+`<div class="ro">Read-only. Change the stage in the Delivery Status field; the dates are this Epic’s own date fields.</div>`;
  $("#cases").innerHTML=CASES.map((x,i)=>`<button data-c="${i}" class="${i===CI?"on":""}">${x.k}</button>`).join("");
- $("#cols").innerHTML=[["c3","3 columns (≈ 400 px)"],["c2","2 columns (≈ 600 px)"],["c1","1 column (full width)"]].map(([k,l])=>`<button data-k="${k}" class="${k===COLS?"on":""}">${l}</button>`).join("");
- $("#dts").innerHTML=[["under","Under each step"],["hover","On hover only"]].map(([k,l])=>`<button data-d="${k}" class="${k===DT?"on":""}">${l}</button>`).join("");
- document.querySelectorAll("[data-c]").forEach(b=>b.onclick=()=>{CI=+b.dataset.c;render()});document.querySelectorAll("[data-k]").forEach(b=>b.onclick=()=>{COLS=b.dataset.k;render()});document.querySelectorAll("[data-d]").forEach(b=>b.onclick=()=>{DT=b.dataset.d;render()})}
+ $("#wid").innerHTML=[[1500,"Wide (1500 px)"],[1280,"Laptop (1280 px)"],[1100,"Narrow (1100 px)"]].map(([k,l])=>`<button data-w="${k}" class="${k===WID?"on":""}">${l}</button>`).join("");
+ $("#dts").innerHTML=[["under","Date and duration under each step"],["hover","On hover only"]].map(([k,l])=>`<button data-d="${k}" class="${k===DT?"on":""}">${l}</button>`).join("");
+ document.querySelectorAll("[data-c]").forEach(b=>b.onclick=()=>{CI=+b.dataset.c;render()});document.querySelectorAll("[data-w]").forEach(b=>b.onclick=()=>{WID=+b.dataset.w;render()});document.querySelectorAll("[data-d]").forEach(b=>b.onclick=()=>{DT=b.dataset.d;render()})}
 render();
 </script></body></html>
